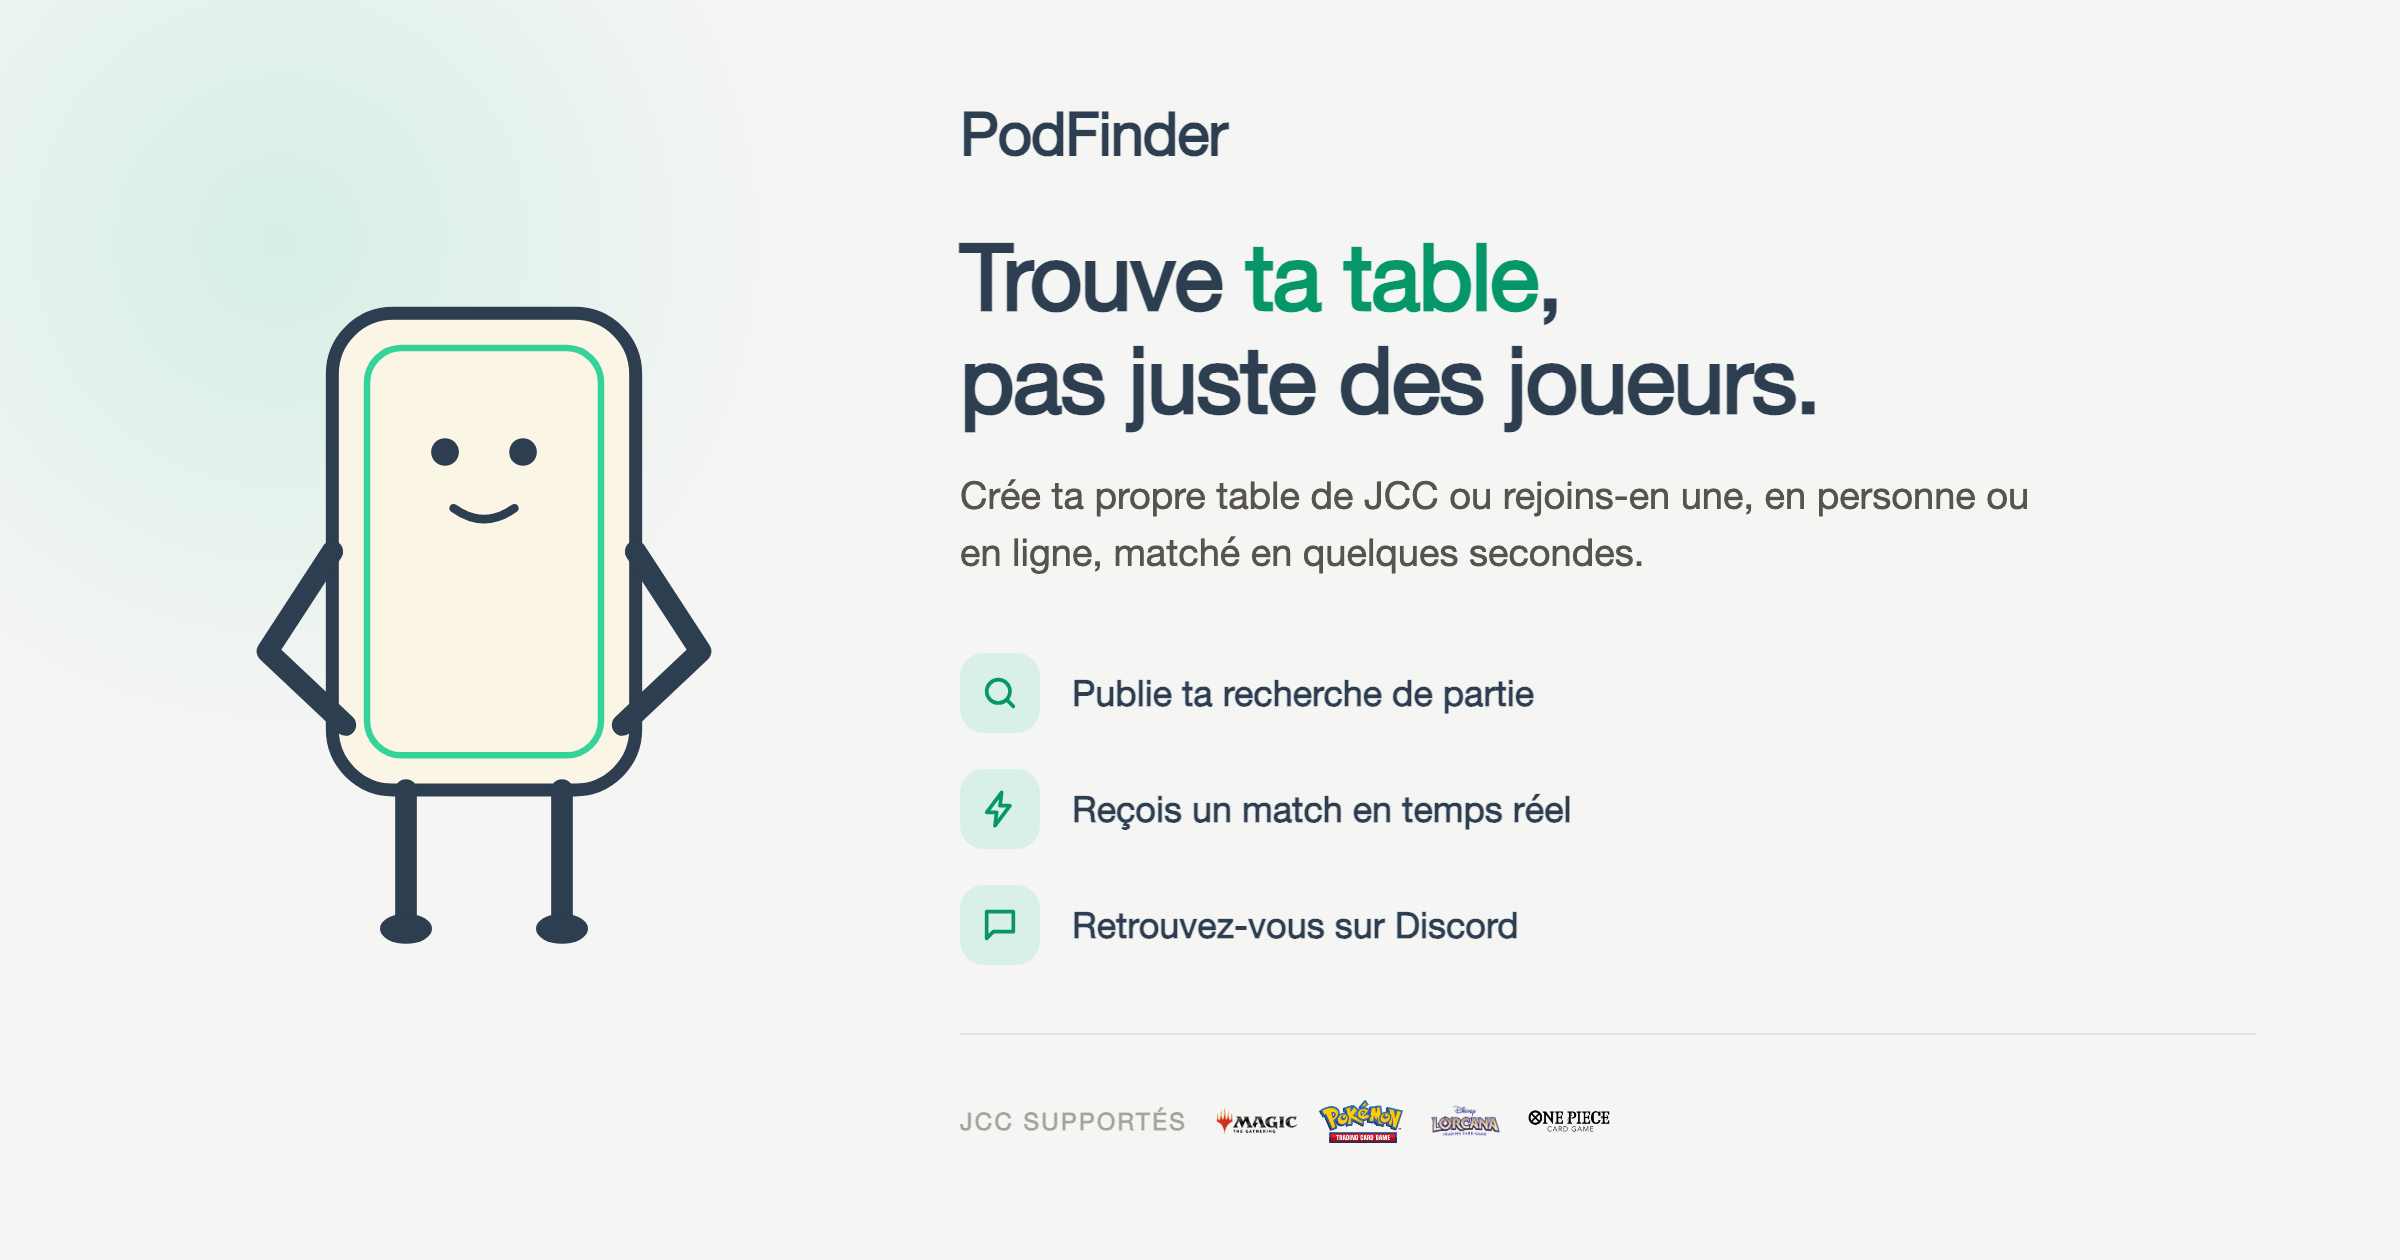
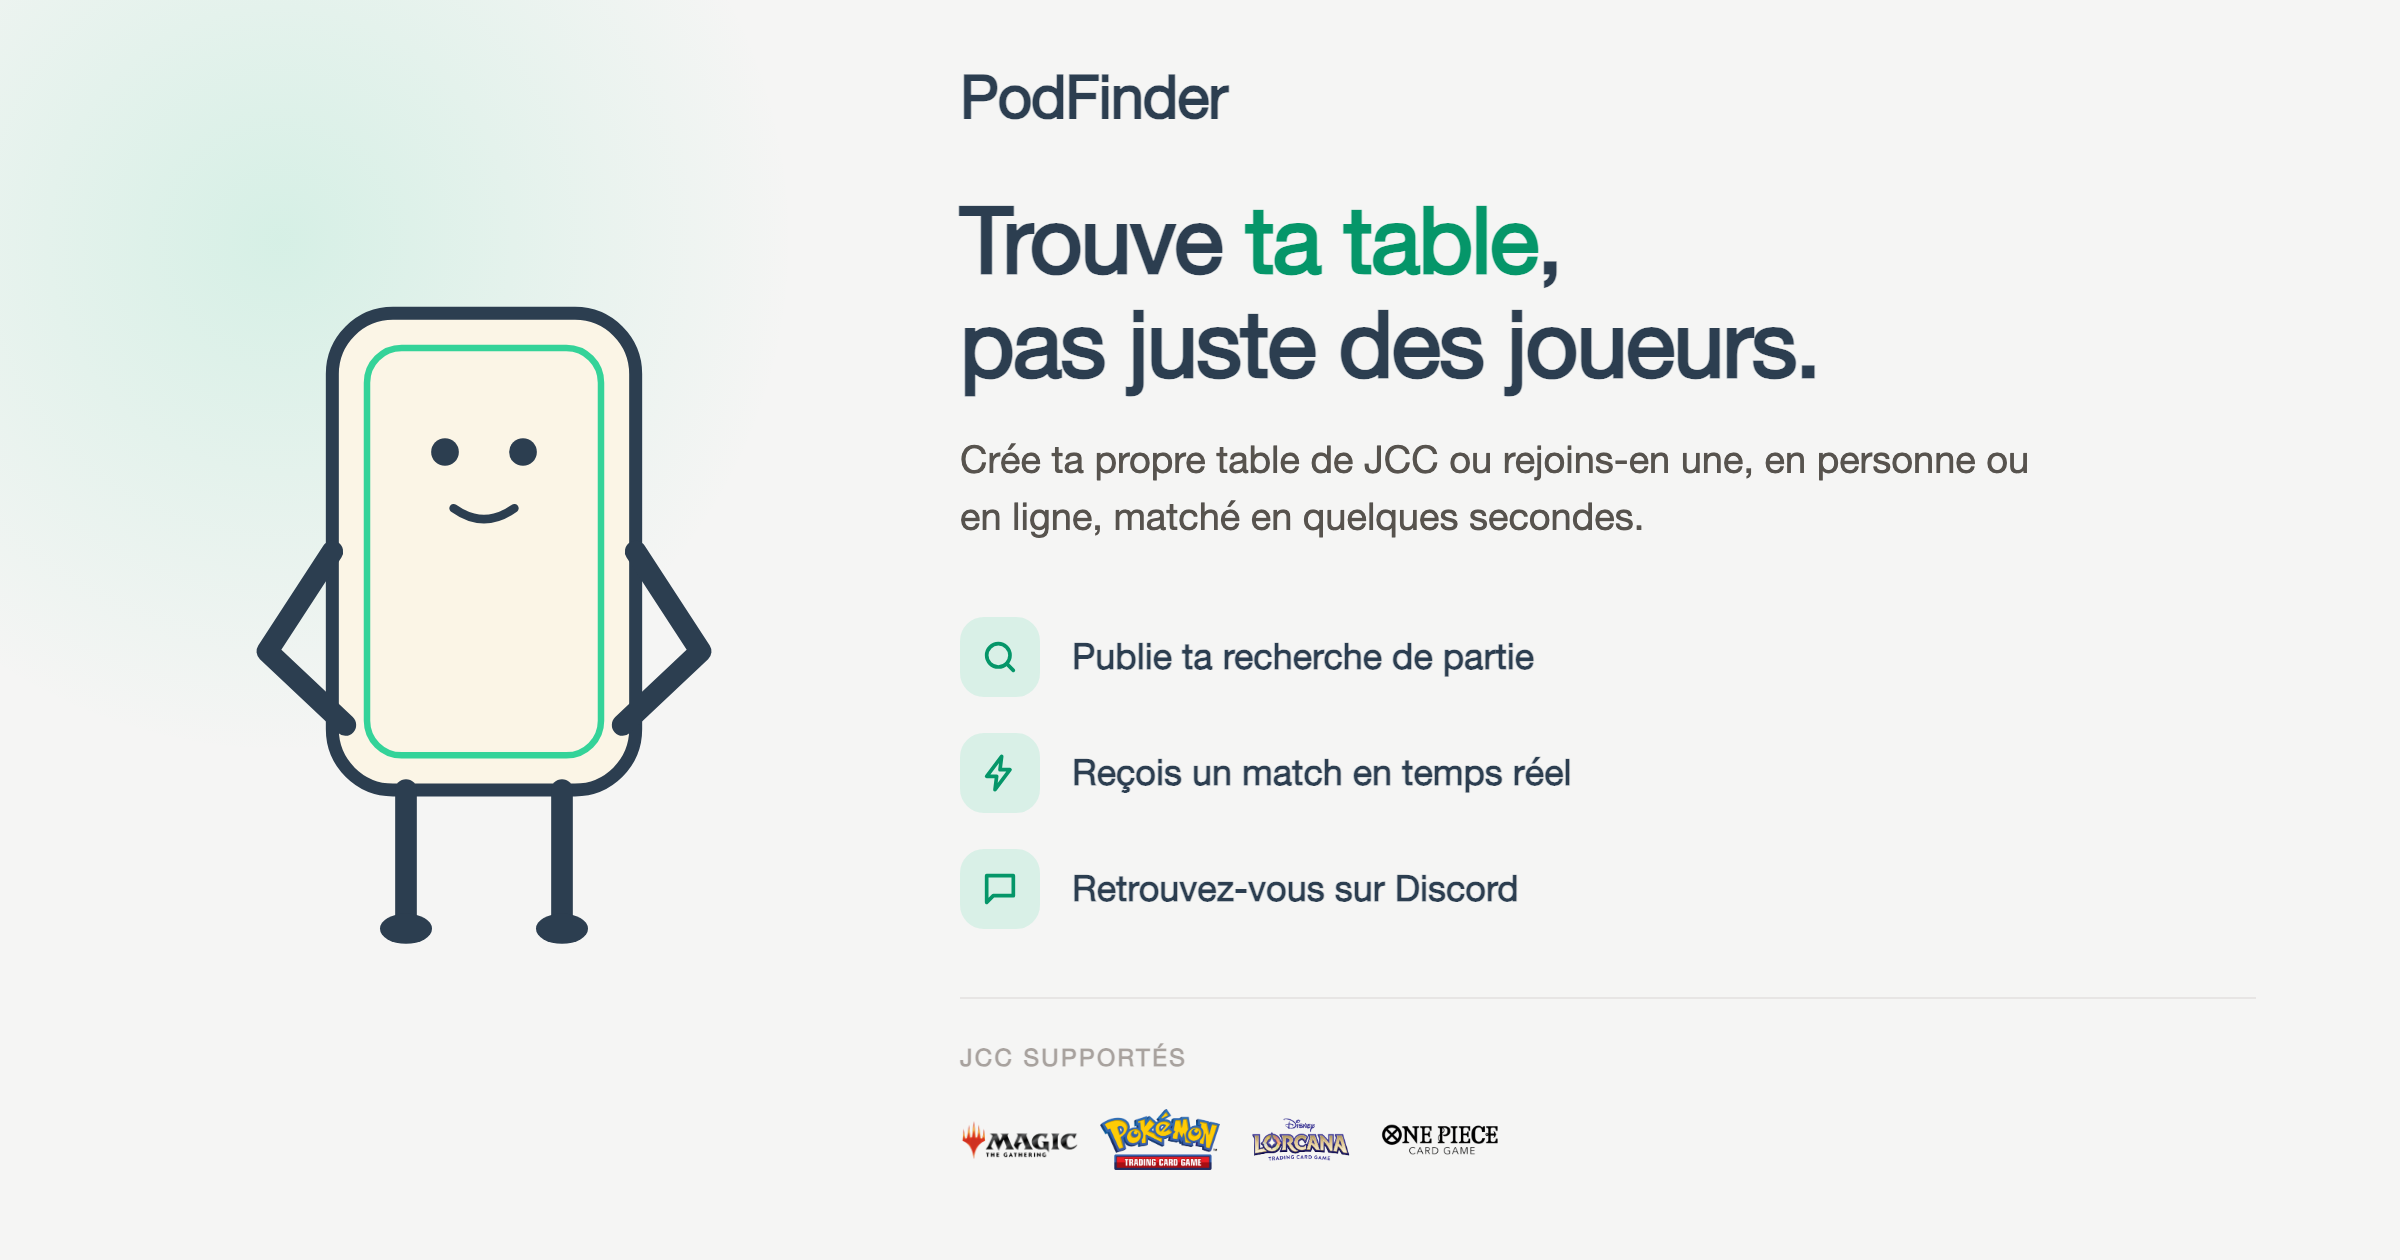
feat: update footer layout and game image sizes for improved presentation

Changed region(s): [[0.375, 0.1548, 0.8438, 0.7738], [0.4062, 0.8357, 0.6875, 0.9286], [0.375, 0.0619, 0.5312, 0.1238]]

diff --git a/marketing/brand/overview.html b/marketing/brand/overview.html
@@ -113,8 +113,8 @@
 
   .footer {
     display: flex;
-    align-items: center;
-    gap: 14px;
+    flex-direction: column;
+    gap: 4px;
     padding-top: 22px;
     border-top: 1px solid #E7E5E4;
   }
@@ -131,8 +131,8 @@
     gap: 10px;
   }
   .footer .games img {
-    width: 42px;
-    height: 42px;
+    width: 60px;
+    height: 60px;
     object-fit: contain;
   }
 </style>
